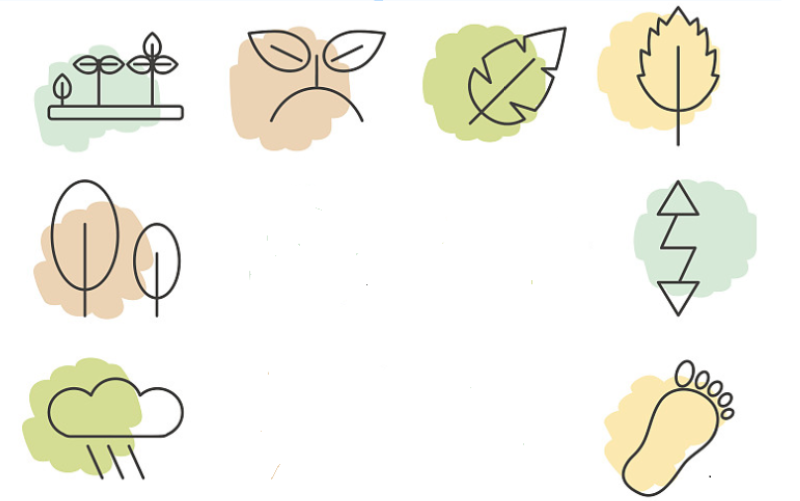
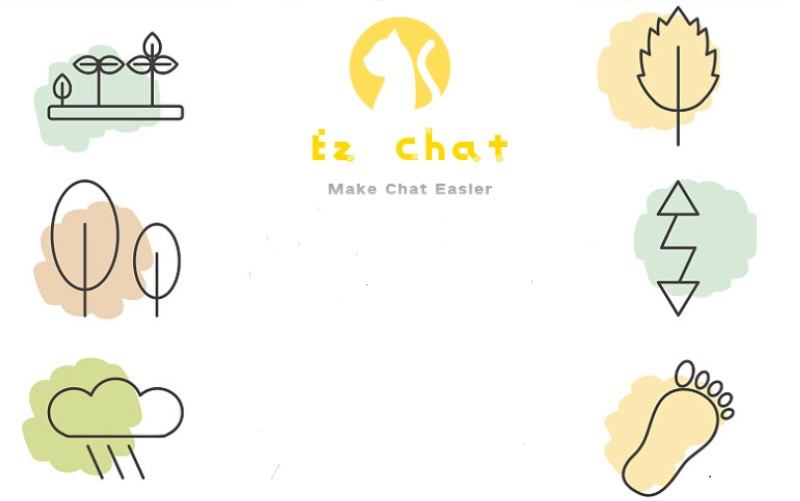
CSS files

Changed region(s): [[0.2812, 0.0299, 0.7188, 0.3293], [0.4062, 0.3593, 0.625, 0.3892]]

diff --git a/EZChatClient/src/main/resources/css/logCSS.css b/EZChatClient/src/main/resources/css/logCSS.css
@@ -1,0 +1,8 @@
+
+.button {
+    -fx-background-color: #668B8B;
+}
+
+.button:hover {
+    -fx-background-color: orange;
+}

diff --git a/EZChatClient/src/main/resources/css/logOnCSS.css b/EZChatClient/src/main/resources/css/logOnCSS.css
@@ -1,0 +1,8 @@
+
+.button {
+    -fx-background-color: #B4CDCD;
+}
+
+.button:hover {
+    -fx-background-color: orange;
+}

diff --git a/EZChatClient/src/main/java/controller/SelfPageController.java b/EZChatClient/src/main/java/controller/SelfPageController.java
@@ -43,7 +43,7 @@ public class SelfPageController implements Initializable {
     @FXML
     private void clickeditInformation(ActionEvent event) throws IOException {
         Parent newGameScreen = FXMLLoader.load(getClass().getResource("/view/modifyInformation.fxml"));
-        Scene newGameScene = new Scene(newGameScreen, 420, 700);
+        Scene newGameScene = new Scene(newGameScreen, 420, 600);
         Stage newGameScreenStage = (Stage) ((Node) event.getSource()).getScene().getWindow();
         newGameScreenStage.setScene(newGameScene);
         newGameScreenStage.show();

diff --git a/EZChatClient/src/main/java/Main.java b/EZChatClient/src/main/java/Main.java
@@ -10,7 +10,7 @@ public class Main extends Application {
     @Override
     public void start(Stage primaryStage) throws Exception{
         Parent root = FXMLLoader.load(getClass().getResource("view/log.fxml"));
-        primaryStage.setTitle("Hello World");
+        primaryStage.setTitle("EZ Chat");
         primaryStage.setScene(new Scene(root, 800, 500));
         primaryStage.show();
     }
